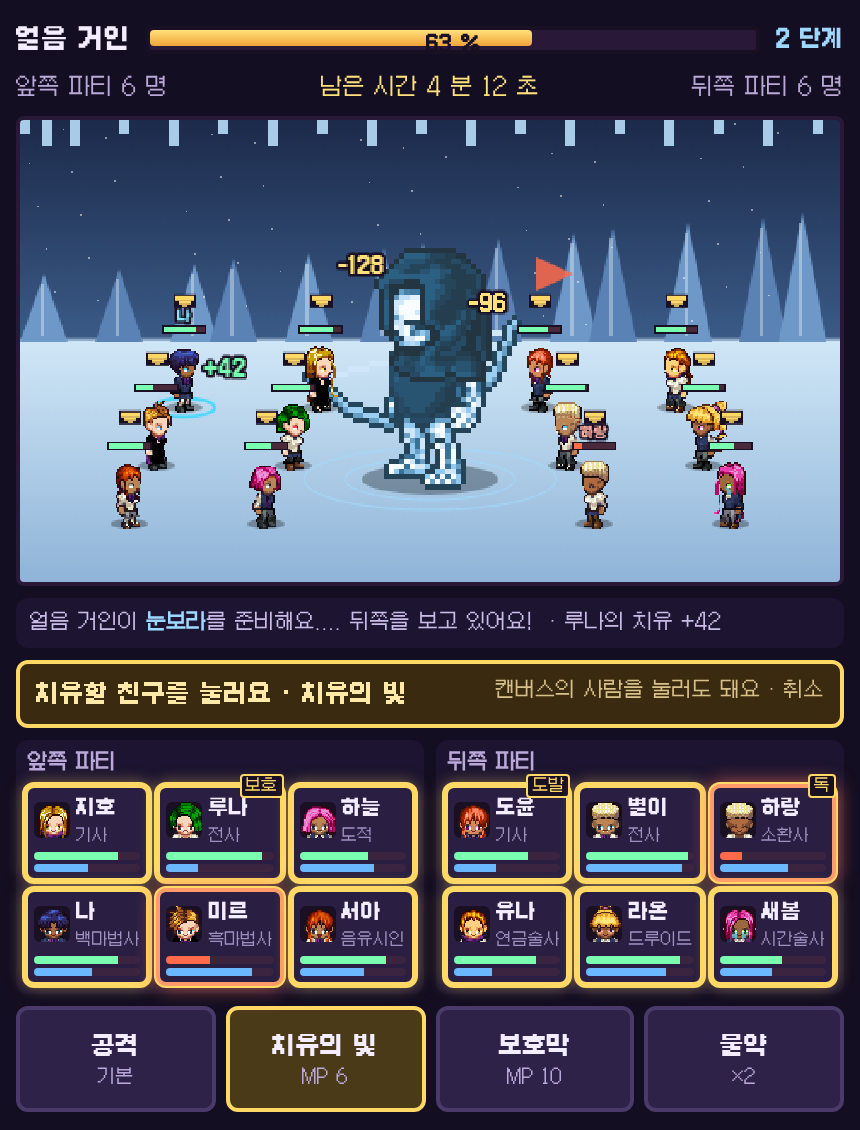
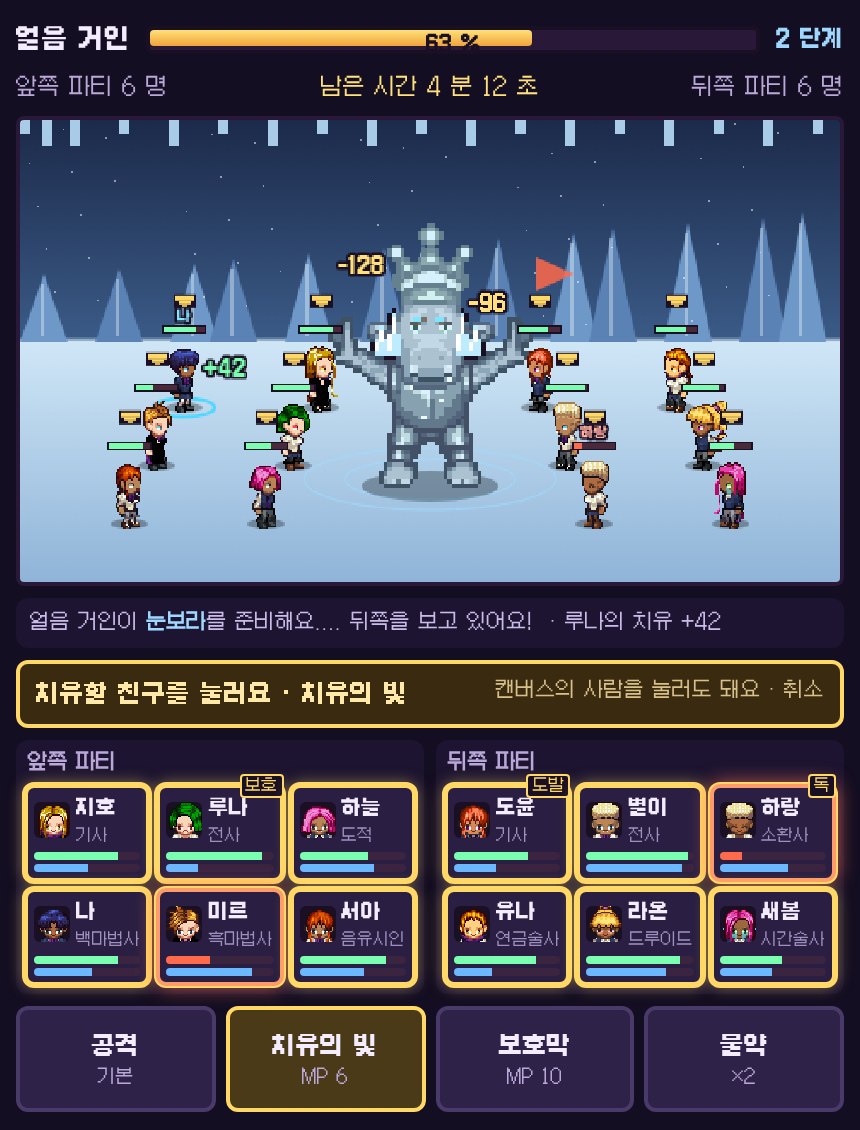
레이드 시안: 전투 화면을 LPC 얼음 거인으로 다시 찍음
Claude-Session: https://claude.ai/code/session_01HhJ2NoNCjk5kaA3GWL7UDs

Changed region(s): [[0.3628, 0.1858, 0.6349, 0.4646]]

diff --git a/tools/raid_mock/raid_hook.js b/tools/raid_mock/raid_hook.js
@@ -51,10 +51,9 @@ window.__raidMock = async () => {
   // 가운데 얼음 마법진
   g.strokeStyle = 'rgba(160,220,255,.7)'; g.lineWidth = 1; g.beginPath(); g.ellipse(W / 2, 210, 74, 18, 0, 0, 7); g.stroke(); g.beginPath(); g.ellipse(W / 2, 210, 50, 12, 0, 0, 7); g.stroke();
   // 보스 (얼음빛을 입힌 돌 거인 ×3)
-  const lpc = xLpcSheet(); if (!lpc.complete) await new Promise(r => { lpc.onload = r; });
-  const bc = document.createElement('canvas'); bc.width = bc.height = 64; const bq = bc.getContext('2d'); bq.drawImage(lpc, 22 * 64, 0, 64, 64, 0, 0, 64, 64); bq.globalCompositeOperation = 'source-atop'; bq.globalCompositeOperation = 'saturation'; bq.fillStyle = '#888'; bq.fillRect(0, 0, 64, 64); bq.globalCompositeOperation = 'color'; bq.fillStyle = 'rgba(120,200,255,.75)'; bq.fillRect(0, 0, 64, 64); bq.globalCompositeOperation = 'destination-in'; bq.drawImage(lpc, 22 * 64, 0, 64, 64, 0, 0, 64, 64); bq.globalCompositeOperation = 'source-atop'; bq.fillStyle = 'rgba(200,235,255,.15)'; bq.fillRect(0, 0, 64, 64);
-  g.fillStyle = 'rgba(0,0,0,.3)'; g.beginPath(); g.ellipse(W / 2, 210, 40, 9, 0, 0, 7); g.fill();
-  g.save(); g.translate(W / 2, 0); g.scale(-1, 1); g.drawImage(bc, 0, 0, 64, 64, -96, 210 - 192 + 12, 192, 192); g.restore();
+  const bim = await new Promise(r => { const im = new Image(); im.onload = () => r(im); im.src = 'art/raid_bosses.png?v=' + Date.now(); });   // LPC 보스 (tools/iso/lpc/raid_boss_lpc.py)
+  g.fillStyle = 'rgba(0,0,0,.3)'; g.beginPath(); g.ellipse(W / 2, 214, 40, 9, 0, 0, 7); g.fill();
+  g.drawImage(bim, 64, 0, 64, 64, W / 2 - 80, 214 - 160 + 6, 160, 160);
   // 뒤쪽을 노리는 표시 (빨간 화살표)
   g.fillStyle = '#ff6a4a'; g.globalAlpha = .85; g.beginPath(); g.moveTo(W / 2 + 62, 80); g.lineTo(W / 2 + 84, 90); g.lineTo(W / 2 + 62, 100); g.fill(); g.globalAlpha = 1;
   // 12 명: 왼쪽 6 (오른쪽 보기), 오른쪽 6 (왼쪽 보기) · 앞열 3 + 뒷열 3
